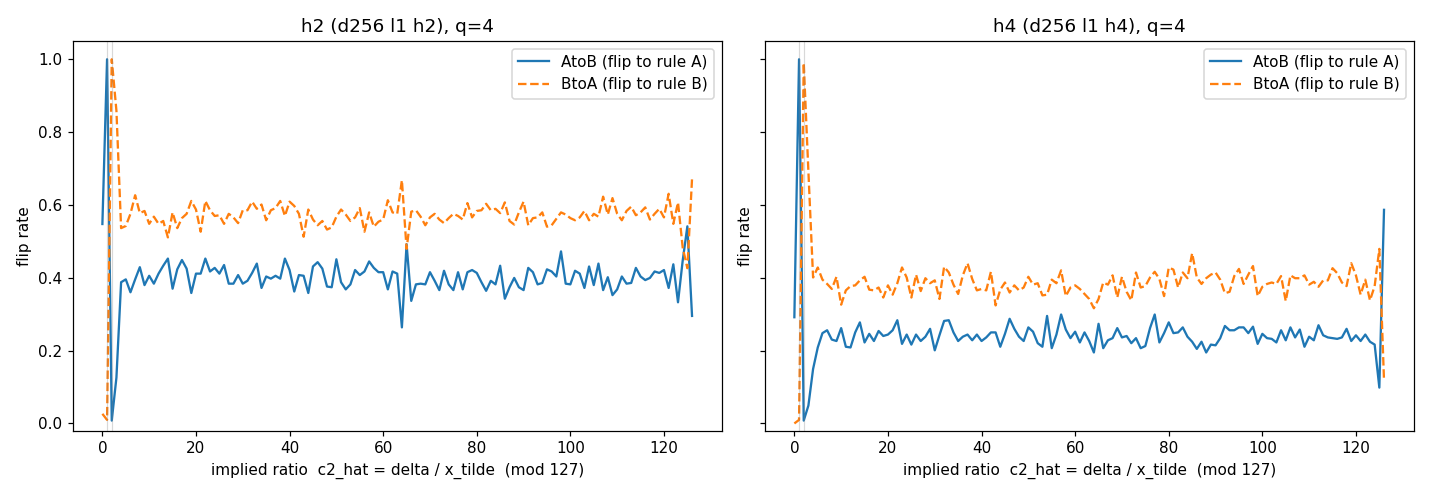
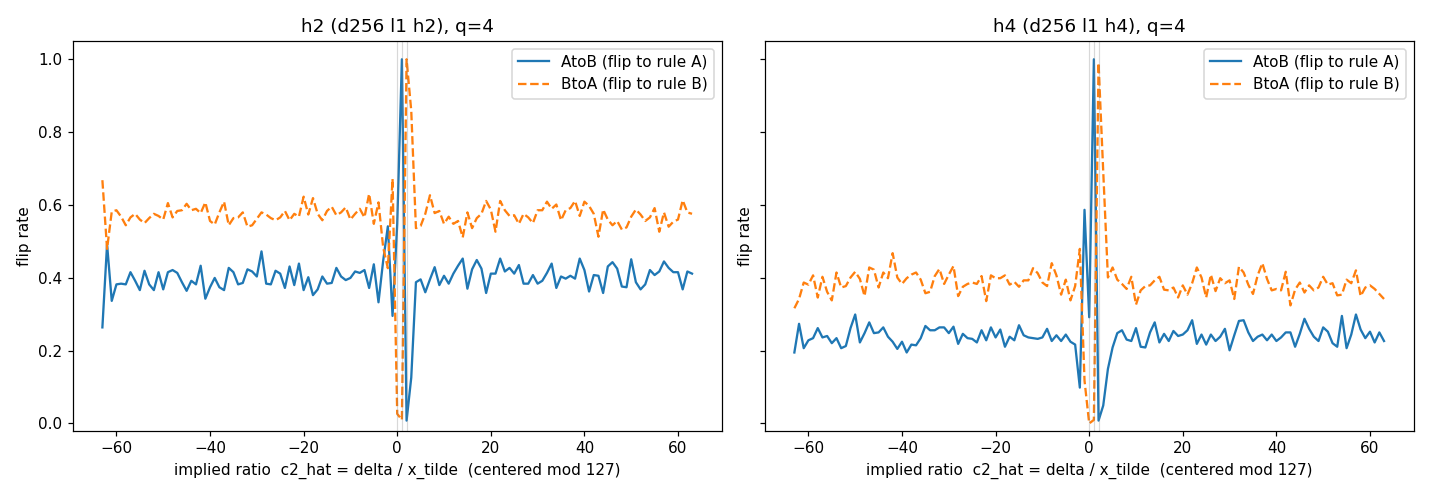
center sweep figure x-axis at 0 (mod-p wrap); archive raw sweep JSONs + figure script

diff --git a/reports/b3_fig_centered.py b/reports/b3_fig_centered.py
@@ -1,0 +1,81 @@
+"""B3 sweep figure: flip rate vs implied ratio c2_hat, both directions,
+both l1 models. Saves PNG."""
+import sys
+import torch
+import matplotlib
+matplotlib.use('Agg')
+import matplotlib.pyplot as plt
+
+sys.path.insert(0, 'src')
+from analyze_attention import load_model
+from activation_patch import (generate_paired_samples, rule_targets,
+                              capture_hidden, patched_logits)
+
+DEV = 'cuda'
+P = 127
+Q = 4
+RUNS = [
+    ('h2 (d256 l1 h2)', 1,
+     '/data/cxm/models/mixed_ab_downscale_l1h4/mixed_basic_d256l1r8h2_P127_N2_e0.7_seed0.pth'),
+    ('h4 (d256 l1 h4)', 0,
+     '/data/cxm/models/mixed_ab_downscale_l1h4/mixed_basic_d256l1r8h4_P127_N2_e0.7_seed0.pth'),
+]
+
+fig, axes = plt.subplots(1, 2, figsize=(13, 4.5), sharey=True)
+for ax, (title, lag2h, path) in zip(axes, RUNS):
+    model, ck = load_model(path, device=DEV)
+    block = model.transformer.h[0]
+    hs = block.attn.head_size
+    d = block.attn.n_embd
+    vsl = slice(2 * d + lag2h * hs, 2 * d + (lag2h + 1) * hs)
+    toks = torch.arange(P, device=DEV)
+    with torch.no_grad():
+        v_all = block.attn.c_attn(block.ln_1(model.transformer.wte(toks)))[:, vsl]
+
+    a, b = generate_paired_samples(P, (1, 1), (1, 2), 512, 12, seed=11)
+    a, b = a.to(DEV), b.to(DEV)
+
+    for direc, idx, src, in_c2, tgt_c2 in (
+            ('AtoB (flip to rule A)', b, a, 2, 1),
+            ('BtoA (flip to rule B)', a, b, 1, 2)):
+        cache_src, _ = capture_hidden(model, src)
+        attv_in = capture_hidden(model, idx)[0][('attn', 0)]
+        # 翻转目标 = 对方规则 × 输入历史
+        v_flip = rule_targets(idx, (1, tgt_c2), P).to(DEV)
+        k = Q + 1
+        delta = (idx[:, Q] - idx[:, Q - 1]) % P
+        N = idx.shape[0]
+        flip_mat = torch.zeros(N, P, dtype=torch.bool)
+        for xt in range(P):
+            fake = attv_in.clone()
+            fake[:, Q, lag2h * hs:(lag2h + 1) * hs] = v_all[xt]
+            pred = patched_logits(model, idx, ('attn', 0, lag2h), Q,
+                                  {('attn', 0): fake})[:, Q].argmax(-1)
+            flip_mat[:, xt] = (pred == v_flip[:, k]).cpu()
+        inv = torch.tensor([0] + [pow(int(t), -1, P) for t in range(1, P)])
+        ratio = (delta.cpu().unsqueeze(1) % P) * inv.unsqueeze(0) % P
+        valid = torch.arange(P).unsqueeze(0).expand(N, P) > 0
+        rates = []
+        for c2v in range(P):
+            m = (ratio == c2v) & valid
+            rates.append(float((flip_mat.float() * m).sum() / m.sum())
+                         if m.sum() else float('nan'))
+        # 居中横轴：c2v > 63 映射为负数（模 p 环绕）
+        xs = [c2v if c2v <= 63 else c2v - P for c2v in range(P)]
+        order = sorted(range(P), key=lambda i: xs[i])
+        xs = [xs[i] for i in order]
+        rates = [rates[i] for i in order]
+        style = '-' if direc.startswith('AtoB') else '--'
+        ax.plot(xs, rates, style, label=direc, lw=1.5)
+    ax.axvline(0, color='gray', alpha=0.3, lw=0.8)
+    ax.axvline(1, color='gray', alpha=0.3, lw=0.8)
+    ax.axvline(2, color='gray', alpha=0.3, lw=0.8)
+    ax.set_xlabel('implied ratio  c2_hat = delta / x_tilde  (centered mod 127)')
+    ax.set_ylabel('flip rate')
+    ax.set_title(f'{title}, q={Q}')
+    ax.legend()
+    ax.set_ylim(-0.02, 1.05)
+
+plt.tight_layout()
+plt.savefig('.chain_tmp/b3_sweep_fig_centered.png', dpi=110)
+print('saved .chain_tmp/b3_sweep_fig_centered.png')
